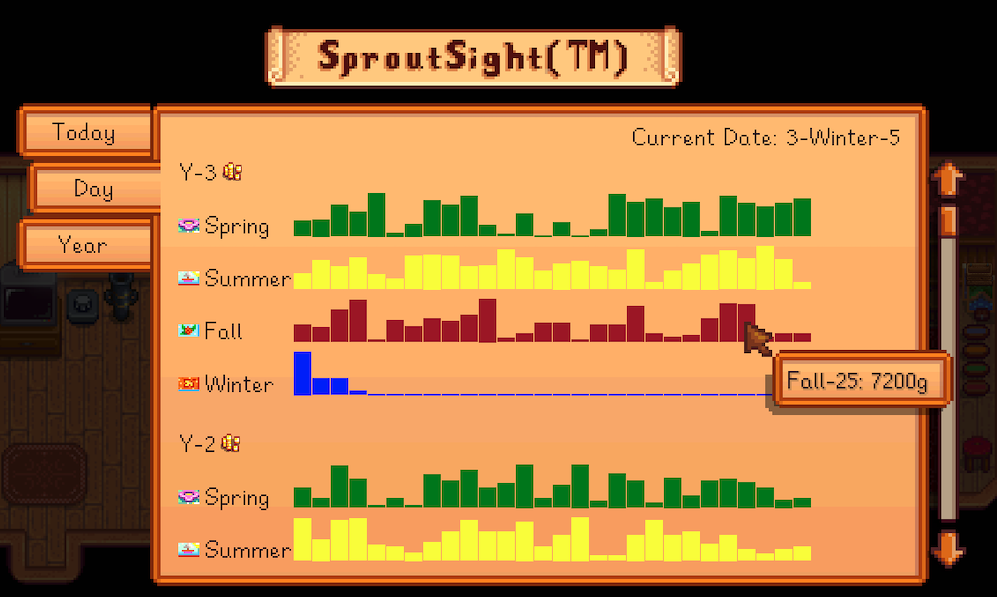
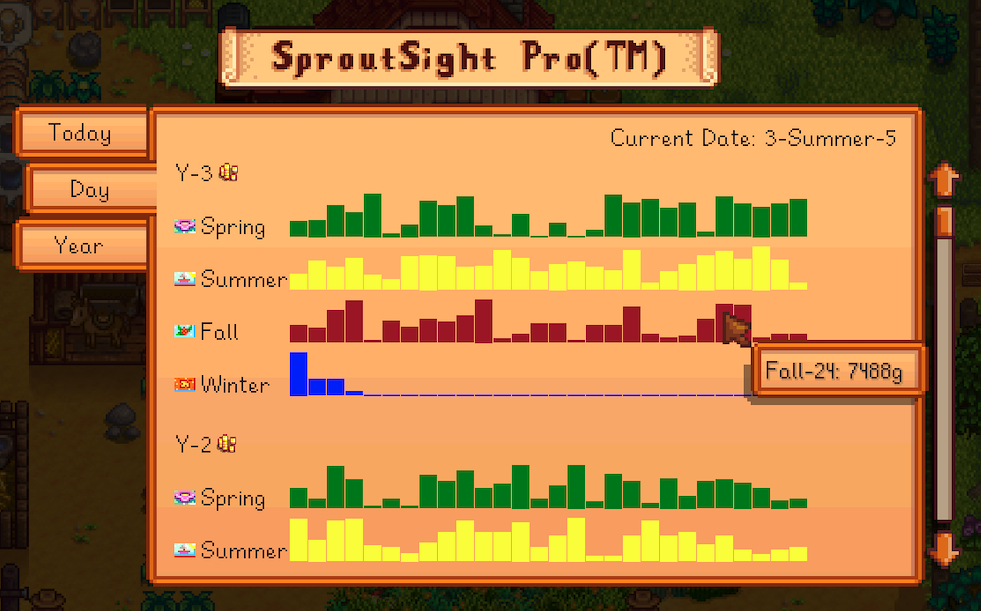
Rename to Pro

diff --git a/ModEntry.cs b/ModEntry.cs
@@ -17,24 +17,8 @@ using System.Runtime.CompilerServices;
 
 /*
 
-// TODO: Packaging
-// TODO: Github project
-// TODO: New Name 
-// TODO: Same farm name + same player name  -- test
-// TODO: Rebase -- check
-// TODO: Readme -- check
-// TODO: Changelog -- check
-// TODO: Nexus -- check
-// TODO: Manifest -- check
-// TODO: Contributing -- Check
-// TODO: License -- Check
-// TODO: Better images
-// TODO: Update Keys
-// TODO: Update Keys
 
 // Issues
-    // TODO: Write stuff out before or after save?
-    // TOOD: Create backups of stat files?
     // TODO: Scrollable has issues
 
 // Adv
@@ -218,7 +202,7 @@ namespace SproutSight
             var mousePos = Helper.Input.GetCursorPosition().GetScaledScreenPixels();
             if (nonScaledHudArea.Contains(mousePos))
             {
-                IClickableMenu.drawHoverText(e.SpriteBatch, "SproutSight(TM)", Game1.smallFont, 0, 0);
+                IClickableMenu.drawHoverText(e.SpriteBatch, "SproutSight Pro(TM)", Game1.smallFont, 0, 0);
             }
         }
 

diff --git a/README.md b/README.md
@@ -1,6 +1,6 @@
-# SproutSight&trade;
+# SproutSight Pro&trade;
 
-SproutSight&trade; allows you to track and analyze your shipping data in Stardew Valley with an easy-to-use interface brought to you by SproutSight &trade;. SproutSight &trade; mod saves your shipping data to CSV files and provides an in-game viewer to analyze your farming profits.
+SproutSight Pro&trade; allows you to track and analyze your shipping data in for your farm with an easy-to-use interface brought to you by SproutSight Pro &trade;. SproutSight Pro&trade; mod saves your shipping data to CSV files and provides an in-game viewer to analyze your farming profits in the SproutSight Pro&trade; UI.
 
 **Download on [Nexus Mods](https://www.nexusmods.com/stardewvalley/mods/31705/)** \
 **Source on [Github](https://github.com/24v/SproutSight)**
